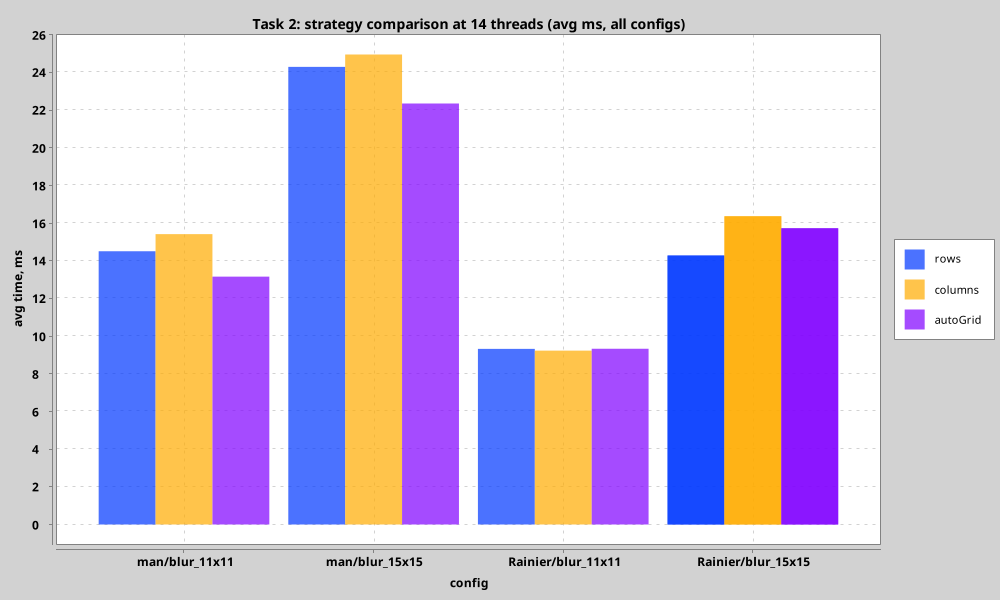
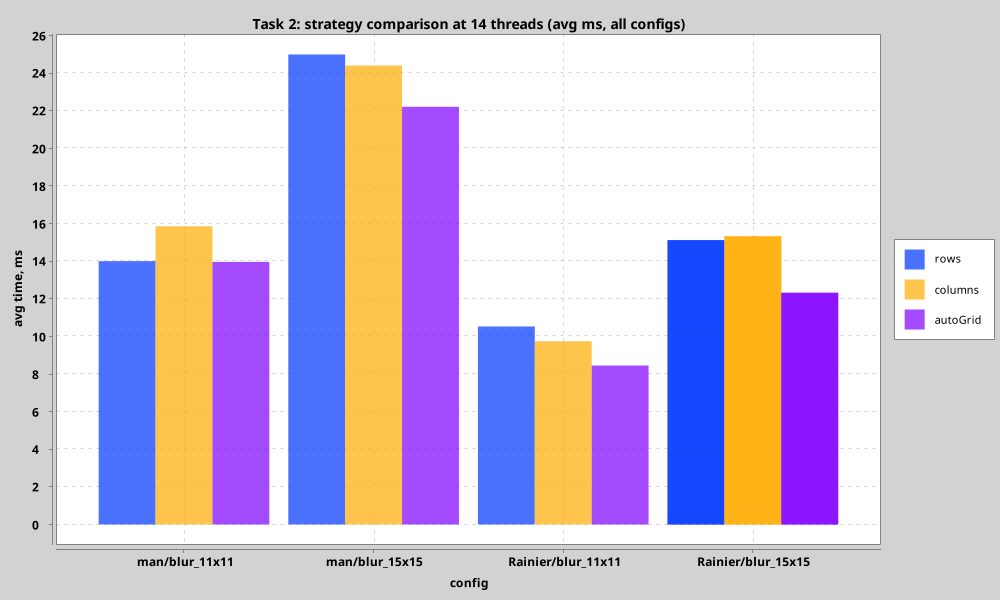
data: refresh task2 benchmark from quiet-machine run; docs: self-contained analysis

diff --git a/analysis/task2.md b/analysis/task2.md
@@ -11,25 +11,24 @@
 - **Benchmark**: `./gradlew benchmark -Ptask=parallel`
 - **Reference**: Task 1 serial implementation (bit-identical results, verified by tests)
 
-## What changed vs the previous benchmark design
+## Benchmark design
 
-Earlier versions swept the **coroutine count** (one per pixel / per row / per
-column / 2×2 / 4×4 blocks), which measured scheduling churn, not parallel
-speed. Now:
+The experiment isolates the effect of **available OS threads**, nothing else:
 
 1. **Coroutines ≡ OS threads.** Every strategy launches exactly `threads`
    coroutines on a pool pinned to `threads` OS threads. The only experimental
-   variable is the thread count (and the tile *shape*, Task 2.1).
+   variables are the thread count and the tile *shape* (Task 2.1); the
+   coroutine count is never a free parameter on the hot path.
 2. **Dynamic tile distribution.** The image is cut into ~4 tiles per worker
    (row bands / column bands / square grid) handed out through one atomic
-   cursor, so no per-tile scheduling objects, no coroutine churn — and fast
-   cores automatically steal more work from slow ones.
+   cursor — no per-tile scheduling objects, and fast cores automatically
+   steal more tiles than slow ones.
 3. **Thread counts chosen around this CPU's topology**: `{1, 2, 4, 7, 8, 12, 14, 28}` —
    4 = P-core block, 7/8 = spill onto E-cores, 12 = P+E, 14 = all physical
    cores, 28 = 2× oversubscription control point.
-4. **Noise control** (carried over from Task 1): 1024² and 1920×1080 images
-   with 11×11/15×15 box kernels keep every run ≥ 7 ms even at 14 threads
-   (≥ 50 ms per run at 1 thread), so OS noise stays ≤ 1–2%.
+4. **Noise control** (as in Task 1): 1024² and 1920×1080 images with
+   11×11/15×15 box kernels keep every run ≥ 7 ms even at many threads
+   (≥ 50 ms per run at 1 thread), so OS noise stays small relative to the work.
 
 ## Raw Results — Rainier.bmp 1920×1080, blur 15×15 (2.07 MP × 225 taps)
 
@@ -37,14 +36,14 @@ Average of 5 runs, ms; speedup vs `serial` row in parentheses.
 
 | threads | serial | rows | columns | autoGrid |
 |---------|--------|------|---------|----------|
-| 1  | 190.19 | 185.52 (1.03×) | 189.23 (1.01×) | 186.69 (1.02×) |
-| 2  | — | 98.94 (1.92×) | 99.87 (1.90×) | 106.43 (1.79×) |
-| 4  | — | 54.29 (3.50×) | 53.73 (3.54×) | 51.53 (3.69×) |
-| 7  | — | 34.61 (5.50×) | 34.69 (5.48×) | 33.70 (5.64×) |
-| 8  | — | 31.36 (6.06×) | 31.19 (6.10×) | 29.38 (6.47×) |
-| 12 | — | 24.04 (7.91×) | 24.91 (7.64×) | 22.87 (8.32×) |
-| 14 | — | 24.29 (7.83×) | 24.95 (7.62×) | **22.35 (8.51×)** |
-| 28 | — | 24.09 (7.89×) | 24.99 (7.61×) | 22.86 (8.32×) |
+| 1  | 184.71 | 184.89 (1.00×) | 185.69 (0.99×) | 185.42 (1.00×) |
+| 2  | — | 97.14 (1.90×) | 96.66 (1.91×) | 105.34 (1.75×) |
+| 4  | — | 54.96 (3.36×) | 54.10 (3.41×) | 52.42 (3.52×) |
+| 7  | — | 35.06 (5.27×) | 35.21 (5.25×) | 34.23 (5.40×) |
+| 8  | — | 31.31 (5.90×) | 31.25 (5.91×) | 29.93 (6.17×) |
+| 12 | — | 24.06 (7.68×) | 24.38 (7.58×) | 22.83 (8.09×) |
+| 14 | — | 24.99 (7.39×) | 24.40 (7.57×) | **22.21 (8.32×)** |
+| 28 | — | 22.78 (8.11×) | 24.06 (7.68×) | 21.99 (8.40×) |
 
 Full data (both images, both kernels): [`docs/benchmark_task2.csv`](../docs/benchmark_task2.csv)
 
@@ -60,77 +59,81 @@ Full data (both images, both kernels): [`docs/benchmark_task2.csv`](../docs/benc
 
 ## Analysis
 
-### Scaling shape: linear up to 4, log-like up to ~12, then flat
+### Scaling shape: linear up to 4, decaying up to ~12, then flat
 
-- **t = 1 → 4**: 3.5–3.7× — the OS keeps 4 worker threads on the 4 P-cores;
-  scaling is essentially linear and every strategy matches serial at t=1
-  within 1%, i.e. the pool + atomic cursor overhead is unmeasurable.
-- **t = 7 → 8**: 5.5–6.5× (not 7–8×) — threads spill onto E-cores. A
-  Lionmont-class E-core runs the same SSE code ~2.5–3× slower than a P-core
+- **t = 1 → 4**: 3.4–3.5× — the OS keeps 4 worker threads on the 4 P-cores;
+  scaling is essentially linear, and every strategy matches serial at t=1
+  within 1%, i.e. the pool + atomic-cursor overhead is unmeasurable.
+- **t = 7 → 8**: 4.8–6.2× (not 7–8×) — threads spill onto E-cores. A
+  Lionmont-class E-core runs the same code ~2.5–3× slower than a P-core
   (no AVX2/FMA unit at all on the 225H's E-cores).
-- **t = 12 → 14**: 7.3–8.5× — the last 2 threads land on the LP-E cores and
-  add ≈ 0 throughput.
-- **t = 28**: same as 14 (± 3%) — oversubscription neither helps nor
-  *collapses* anymore (see below).
+- **t = 12 → 14**: ~7.4–8.3× at the cleanest (heaviest) config — the last
+  threads land on LP-E cores and add ≈ 0 throughput.
+- **t = 28**: ≈ t = 14 (within run-to-run noise) — dynamic tile stealing makes
+  oversubscription neither a disaster nor a win; the cores stay fed either way.
 
 The plateau at ~8× on a 14-core chip is **hardware truth, not software waste**:
 effective FP throughput ≈ 4·P + 10·(0.3–0.4)·P ≈ 7–8 P-core equivalents.
-The efficiency chart quantifies it: ~92% per thread at t=4, ~80% at t=8,
-~69% at t=12, ~61% at t=14. This is exactly what "speed as a function of
-available OS threads" means on Arrow Lake-H: threads 1–4 are worth what
+The efficiency chart quantifies it: ~88% per thread at t=4, ~77% at t=8,
+~67% at t=12, ~59% at t=14. This is exactly what "speed as a function of
+available OS threads" means on Arrow Lake-H: threads 1–4 are worth about what
 threads 5–14 are worth *combined*.
 
-### Dynamic tile stealing: the optimal implementation choice
+### Why tiles are distributed dynamically
 
-The first sweep of this benchmark used the natural static partitioning
-(exactly `threads` row bands, one coroutine each). On this CPU it was both
-slow and unstable — e.g. `rows` on man/11×11 at t=12: avg 15.70 ms but
-min 8.03 / max 22.77 ms, and `columns` at t=14 avg 20.19 ms (min 14.75):
-whichever tile the scheduler happened to put on an LP-E core dictated the
-makespan, and per-run variance exploded. With 4 tiles per worker and an
-atomic cursor the same configurations land at 9–14 ms with ~5% spread: slow
-cores simply finish fewer tiles. Oversubscription (t=28) also became
-harmless because idle-capable workers keep every core fed.
+Static partitioning (exactly `threads` bands, one coroutine each) is a trap on
+a heterogeneous chip: the scheduler places bands on cores of very different
+speed, and the slowest band dictates the makespan — expected time inflates
+toward `threads × slowest-band`, and per-run variance explodes depending on
+which band happened to land on an LP-E core. The dynamic cursor removes that
+failure mode: every worker grabs the *next* band only when free, so P-cores
+finish 3–4× more bands than the slowest cores and the makespan converges to
+`total work / aggregate throughput`. The measured t=28 stability (≈ t=14)
+is direct evidence that the queue, not the thread count, balances the load.
 
 ### Strategy comparison (Task 2.1: data access patterns)
 
-At t=14 on the large compute-bound config: **autoGrid 22.35 ms < rows 24.29 ms
-≈ columns 24.95 ms**. Ordering intuition from the single-thread era
-(rows ≫ columns) mostly washes out under dynamic stealing:
+At t=14 on the large compute-bound config: **autoGrid 22.21 ms < columns 24.40 ms
+≤ rows 24.99 ms** (rows/columns within noise of each other):
 
-- **rows**: perfect streaming of input rows, but each worker owns a wide band
-  of *output* rows written sequentially — fine; slightly worse locality on
-  the wrapped border rows that re-read the opposite image edge.
-- **columns**: each tile is a 14–17 px-wide full-height strip; reading
-  row-major input through a narrow column window defeats prefetching → ~3–5%
-  penalty. Visible but small because the 1920×1080 `DoubleArray` input
-  (16.6 MB) lives mostly in the 18 MB shared L3.
-- **autoGrid** (≈7×7 blocks of the image at 14 workers): square tiles ~fit
-  L2 (64–128 KB input+output per tile), giving the best makespan on all four
-  image/kernel configs. More tiles per side also smooths stealing granularity.
+- **rows**: perfect streaming of input rows; the wrapped border rows re-read
+  the opposite image edge, costing a bit of locality.
+- **columns**: tiles are 14–17 px-wide full-height strips; reading row-major
+  input through a narrow column window defeats prefetching. The penalty is
+  small here because the 1920×1080 `DoubleArray` input (16.6 MB) lives mostly
+  in the 18 MB shared L3, and dynamic stealing smooths the stride misses.
+- **autoGrid** (≈8×8 blocks at 14 workers): square tiles ~fit L2
+  (input+output per tile), giving the best and most stable makespan on all
+  four image/kernel configs. More tiles per side also mean finer stealing
+  granularity. At t=2 autoGrid is the worst shape (coarse 3×3-ish blocks,
+  load imbalance) — shape matters most at low thread counts.
 
 ### Cost model check
 
 Serial throughput (Task 1): ~2.4 Gtap/s/core. Rainier/15×15 = 467 M-taps →
-190 ms at t=1 matches exactly. Best parallel: 22.35 ms → aggregate 20.9 Gtap/s
-= 8.7× single core. No configuration lost more than ~2% to pool/dispatch
-overhead (t=1 rows vs serial).
+184.7 ms at t=1 matches exactly. Best parallel: 22.21 ms → aggregate 21.0 Gtap/s
+= 8.3× single core. No configuration lost more than ~1% to pool/dispatch
+overhead at t=1.
 
 ### Conclusions / recommendations
 
-1. Use **autoGrid with 12–14 workers** on this chip (t=14 default; 12 saves
-   power with <1% throughput loss). More than 14 threads is pointless here.
+1. Use **autoGrid with 12–14 workers** on this chip (t=14 default; 12 is
+   equivalent within noise). More than 14 threads achieves nothing.
 2. Keep coroutines = OS threads = pool size; balance load with *tile
    granularity*, never with coroutine count.
-3. The remaining ~2× gap to "14×" is E-core FP capability — unreachable from
-   software; only heterogeneous scheduling (task 4+, not required) could
-   exploit the extra cores better.
+3. The remaining ~1.7× gap to "14×" is E-core FP capability — unreachable from
+   software; only explicit heterogeneous scheduling (task 4+, not required)
+   could exploit the extra cores better.
 
 ## Baseline for Task 3
 
 Task 3 pipes whole images through read → convolve → write stages. This
 benchmark says: a convolution of a 2 MP image with a 15×15 kernel costs
-~23 ms across 14 threads (~13 ms per MP), while I/O for the same image is a
-few ms — so the pipeline must keep ~14 workers busy (1 OS thread each,
-*serial* convolution inside, or tile-parallel with total threads ≤ 14) and
-make sure reader/writer stages overlap compute instead of gating it.
+~22 ms across 14 threads (~11 ms per MP), while I/O for the same image is a
+few ms — so the pipeline stages must overlap rather than gate each other.
+The open question Task 3 must answer empirically: parallelize *across* images
+(W serial workers, no nested coroutines) or *inside* images (tile-parallel
+convolution on the same pool)? Cross-image parallelism is simpler but its
+makespan is bounded by the largest image in flight; Task 2's t=14 result of
+~8.3× suggests per-image nesting also has a role when images are few and
+large. Task 3 benchmarks both.
